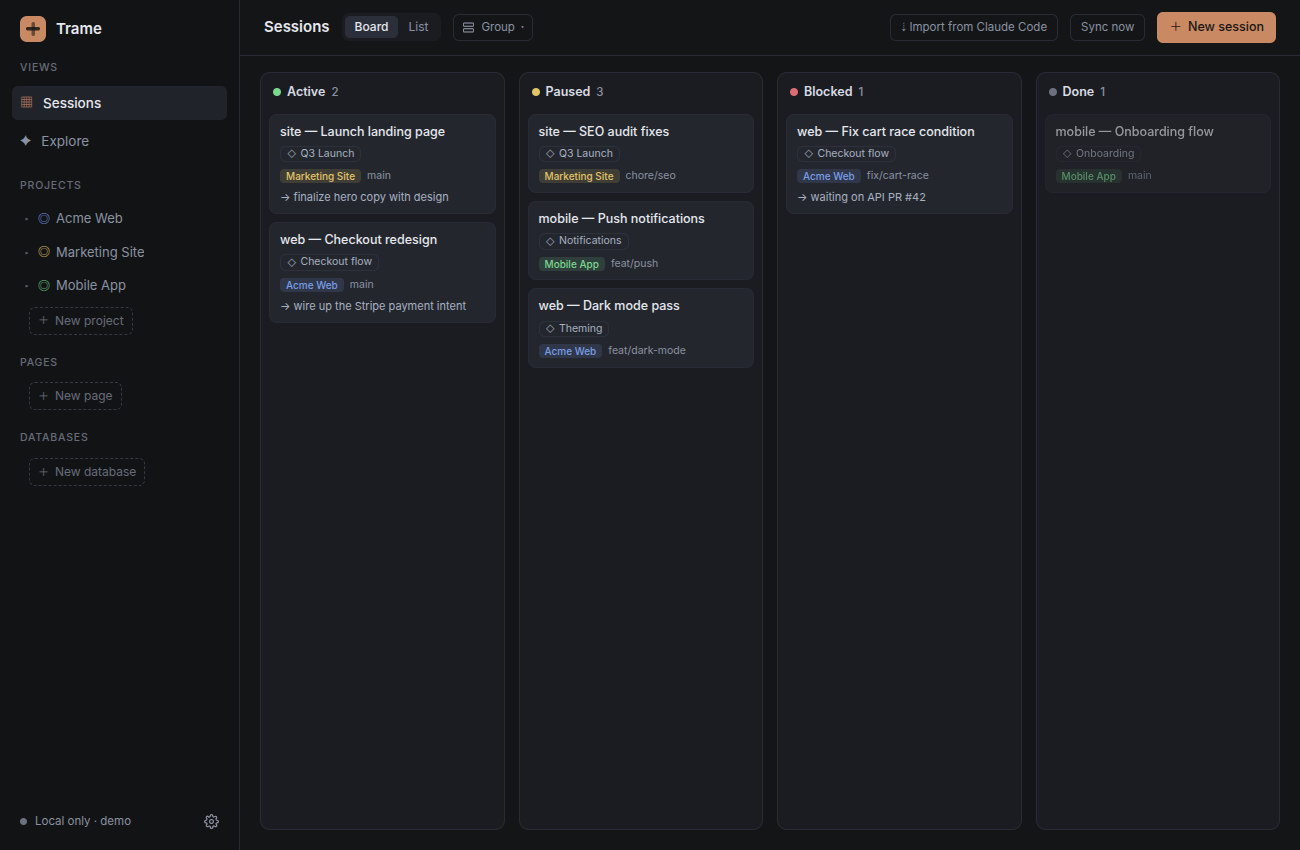
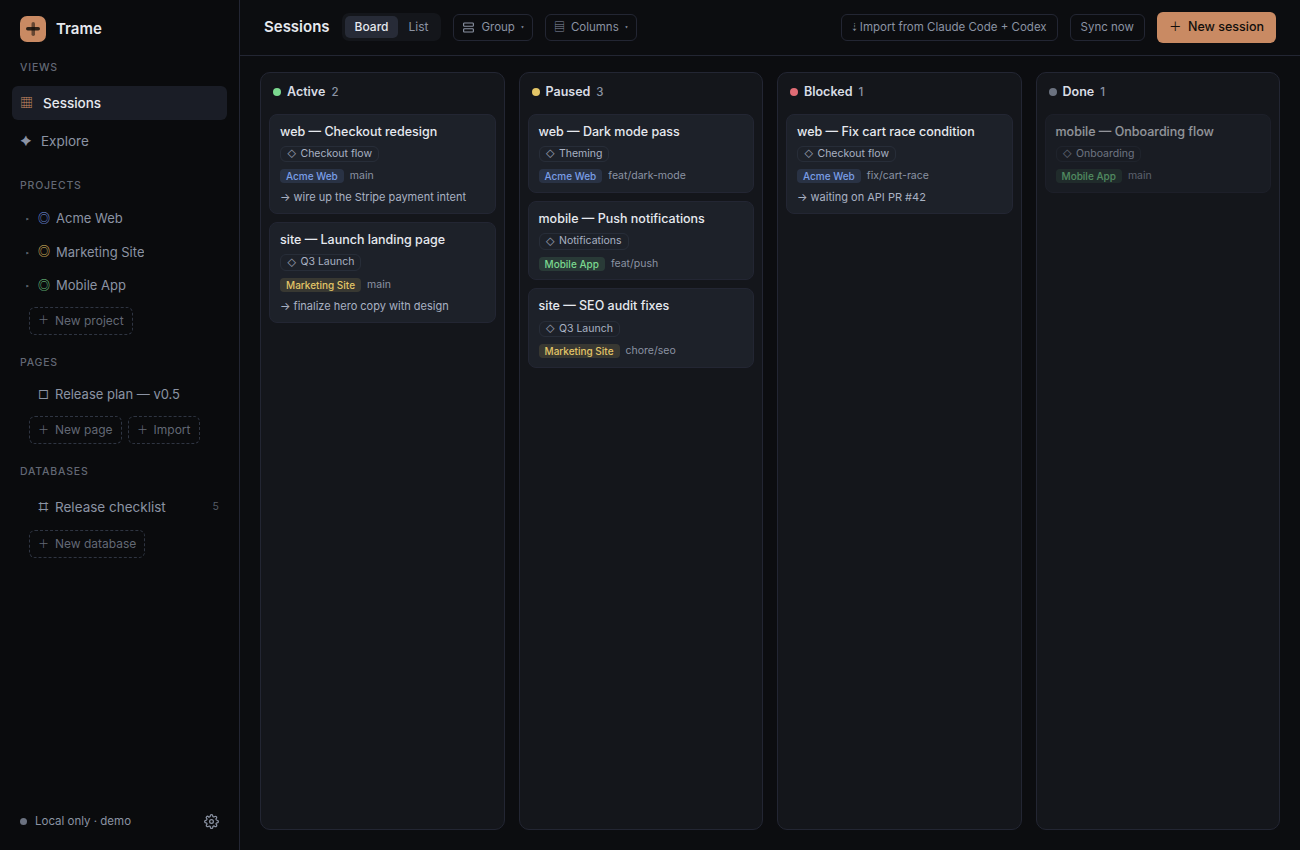
docs: refresh the README screenshots for 0.4, document plugins, add a reproducible demo seed
The screenshots were captured pre-0.4 and the README never mentioned the plugin
system at all.

- regenerate the six screenshots against 0.4.1: Codex in the import button, the
  Columns menu, the drawer's next-step banner / PR state chip / resume split-button,
  database view tabs + pagination, and the page Share button
- add scripts/demo-seed.ts + `just demo`: an isolated instance on :8799 with the
  fictional dataset the screenshots use, so the next refresh is one command. The
  recipe blanks TRACKER_REMOTE_PG explicitly — just loads .env, and demo data must
  never reach a real hub.
- README: document the plugin system and the deployments panel (incl. that tokens
  stay device-local, unsynced and host-bound); list plugins/, csrf.ts and
  settings-store.ts in the layout
- README: point the layout at `just install-cmd` / `just install-skill` — the shipped
  track.md and SKILL.md carry a __TRACK_WRITER__ placeholder since 0.4.1, so copying
  them by hand installs a broken writer path
- README: resume is Claude Code *or* Codex; note the walkthrough video predates 0.4

diff --git a/scripts/demo-seed.ts b/scripts/demo-seed.ts
@@ -1,0 +1,122 @@
+// DESCRIPTION: seed a Trame instance with the synthetic demo dataset used for the README
+// screenshots (docs/*.png). Fictional projects only — never point this at a real instance.
+// USAGE: TRAME_URL=http://127.0.0.1:8799 deno run -A scripts/demo-seed.ts
+// EXAMPLES: just demo   (spins up an isolated instance, seeds it, and serves it)
+const base = Deno.env.get("TRAME_URL") ?? "http://127.0.0.1:8799";
+
+const api = async (path: string, body?: unknown) => {
+  const res = await fetch(`${base}${path}`, {
+    method: body === undefined ? "GET" : "POST",
+    headers: body === undefined ? {} : { "content-type": "application/json" },
+    body: body === undefined ? undefined : JSON.stringify(body),
+  });
+  if (!res.ok) throw new Error(`${path} → ${res.status} ${await res.text()}`);
+  return res.json();
+};
+
+const PROJECT_COLOR: Record<string, string> = {
+  "Acme Web": "#7a9ee7",
+  "Marketing Site": "#e3c567",
+  "Mobile App": "#7bd88f",
+};
+
+// title, client, story, status, branch, next step
+const SESSIONS: [string, string, string, string, string, string?][] = [
+  ["site — Launch landing page", "Marketing Site", "Q3 Launch", "active", "main", "finalize hero copy with design"],
+  ["web — Checkout redesign", "Acme Web", "Checkout flow", "active", "main", "wire up the Stripe payment intent"],
+  ["site — SEO audit fixes", "Marketing Site", "Q3 Launch", "paused", "chore/seo"],
+  ["mobile — Push notifications", "Mobile App", "Notifications", "paused", "feat/push"],
+  ["web — Dark mode pass", "Acme Web", "Theming", "paused", "feat/dark-mode"],
+  ["web — Fix cart race condition", "Acme Web", "Checkout flow", "blocked", "fix/cart-race", "waiting on API PR #42"],
+  ["mobile — Onboarding flow", "Mobile App", "Onboarding", "done", "main"],
+];
+
+const board0 = await api("/api/board");
+if (board0.sessions.length) {
+  console.error("instance already has sessions — refusing to seed over it");
+  Deno.exit(1);
+}
+
+// With DEMO_CLAUDE_DIR set (and the app's TRACKER_CLAUDE_DIR pointing at it), plant a
+// transcript so the Checkout card is genuinely resumable — the drawer screenshot would
+// otherwise read "No transcript on this device". The app only checks the file exists.
+const AGENT_ID = "9f1c7c8e-3b2a-4d5e-8a1f-2c6b0d4e7a13";
+const claudeDir = Deno.env.get("DEMO_CLAUDE_DIR");
+if (claudeDir) {
+  const dir = `${claudeDir}/-Users-demo-code-acme-web`;
+  await Deno.mkdir(dir, { recursive: true });
+  await Deno.writeTextFile(
+    `${dir}/${AGENT_ID}.jsonl`,
+    JSON.stringify({ type: "user", cwd: "/Users/demo/code/acme-web" }) + "\n",
+  );
+}
+
+for (const [title, client, objective, status, branch, next_step] of SESSIONS) {
+  const checkout = title.includes("Checkout redesign");
+  await api("/api/sessions", {
+    title,
+    client,
+    objective,
+    status,
+    branch,
+    next_step,
+    repo_path: `/Users/demo/code/${client.toLowerCase().replace(/ /g, "-")}`,
+    pr_url: checkout ? "https://github.com/acme/web/pull/128" : undefined,
+    agent_id: checkout && claudeDir ? AGENT_ID : undefined,
+    no_event: true,
+  });
+}
+
+// project chips are colored per client
+const pages = await api("/api/pages") as { id: string; title: string; kind: string }[];
+for (const p of pages.filter((x) => x.kind === "project" && PROJECT_COLOR[x.title])) {
+  await api(`/api/pages/${p.id}`, { color: PROJECT_COLOR[p.title] });
+}
+
+const { id: pageId } = await api("/api/pages", { title: "Release plan — v0.5", kind: "page" });
+await api(`/api/pages/${pageId}`, {
+  content: [
+    { type: "heading", text: "Goals for v0.5", id: "b1" },
+    {
+      type: "text",
+      text: "Ship offline-first sync polish and the new reporting view. Keep the local-first guarantee: everything works with no hub.",
+      id: "b2",
+    },
+    { type: "heading", text: "Checklist", id: "b3" },
+    { type: "todo", text: "Conflict banner when a pull overwrites a local edit", done: true, id: "b4" },
+    { type: "todo", text: "Per-project weekly digest in Explore", done: false, id: "b5" },
+    { type: "todo", text: "Keyboard nav for the board (j/k, x to move)", done: false, id: "b6" },
+    { type: "heading", text: "Open questions", id: "b7" },
+    {
+      type: "text",
+      text: "Do we surface the hub connection state in the title bar, or keep it in the sidebar footer only?",
+      id: "b8",
+    },
+  ],
+});
+
+const { id: dbId } = await api("/api/udb", { name: "Release checklist" });
+const { properties } = await api(`/api/udb/${dbId}`);
+const titleId = (properties as { id: string; type: string }[]).find((p) => p.type === "title")!.id;
+
+const opt = (name: string, color: string) => ({ id: name.toLowerCase().replace(/ /g, "-"), name, color });
+const STATUS = [opt("Done", "#7bd88f"), opt("In progress", "#e3c567"), opt("Todo", "#8b93a3")];
+const PRIO = [opt("High", "#e06c75"), opt("Med", "#e3c567"), opt("Low", "#7a9ee7")];
+const { id: statusId } = await api(`/api/udb/${dbId}/props`, { name: "Status", type: "select", config: { options: STATUS } });
+const { id: prioId } = await api(`/api/udb/${dbId}/props`, { name: "Priority", type: "select", config: { options: PRIO } });
+const { id: ownerId } = await api(`/api/udb/${dbId}/props`, { name: "Owner", type: "text" });
+
+const ROWS: [string, string, string, string][] = [
+  ["Bump version to 0.4.1", "done", "high", "julien"],
+  ["Cut GitHub release + tag", "in-progress", "high", "julien"],
+  ["Update README screenshots", "in-progress", "med", "julien"],
+  ["Test resume on the Mac", "todo", "med", "sam"],
+  ["Verify color sync to hub", "done", "low", "sam"],
+];
+for (const [name, status, prio, owner] of ROWS) {
+  await api(`/api/udb/${dbId}/rows`, {
+    vals: { [titleId]: name, [statusId]: status, [prioId]: prio, [ownerId]: owner },
+  });
+}
+
+console.log(`seeded ${base}: ${SESSIONS.length} sessions, 3 projects, 1 page, 1 database`);

diff --git a/README.md b/README.md
@@ -5,7 +5,8 @@ under a **project**); the board is **status columns × swimlanes** — the view 
 tool gave us, and the columns are **yours to define**. It also holds free-form **pages** (with inline
 comments and one-file sharing) and **Notion-style databases** (sortable / filterable / groupable views).
 `⌘P` jumps to any session, page, or database; a card's **Resume** button reopens the session in Claude
-Code or Codex.
+Code or Codex. Opt-in **plugins** add side panels — the first one lists GitHub/GitLab
+**deployments waiting for approval**.
 
 Stack: **Deno-desktop** app → **local PGlite** (embedded Postgres, offline read+write) →
 custom **push/pull LWW sync** → **Postgres on a home server** (the hub). No PowerSync, no Electric.
@@ -25,13 +26,13 @@ Everything is Postgres, so the SQL is identical on the laptop and the hub.
 ![Trame walkthrough](docs/demo.gif)
 
 > A short tour: filter the board by story, regroup into swimlanes, open a session and
-> **resume it in Claude Code**, sort the list, then browse a page and a database.
-> ([higher-quality MP4](docs/demo.mp4) · screens use demo data)
+> **resume it in Claude Code or Codex**, sort the list, then browse a page and a database.
+> ([higher-quality MP4](docs/demo.mp4) · screens use demo data, recorded pre-0.4)
 
 | Kanban board — status columns | Swimlanes — group by project or story |
 | :--- | :--- |
 | [![board](docs/board.png)](docs/board.png) | [![grouped board](docs/board-grouped.png)](docs/board-grouped.png) |
-| **Session drawer — resume in Claude Code** | **Sortable list view** |
+| **Session drawer — resume in Claude Code / Codex** | **Sortable list view** |
 | [![drawer](docs/drawer.png)](docs/drawer.png) | [![list](docs/list.png)](docs/list.png) |
 | **Pages — notes & docs next to the work** | **Databases — Notion-style tables** |
 | [![page](docs/page.png)](docs/page.png) | [![database](docs/database.png)](docs/database.png) |
@@ -57,11 +58,14 @@ app/                       Deno-desktop app
   sync.ts                  custom LWW push/pull to the hub
   config.ts                env config (NODE_ID, REMOTE_PG, data dir…)
   share.ts                 export/import a page subtree as a portable *.trame.json bundle
+  csrf.ts                  same-origin guard for /api (it spawns terminals, opens files…)
+  plugins/                 opt-in in-tree plugins (deployments: GitHub/GitLab approvals)
+  settings-store.ts        single writer for the device-local settings JSON (0600, holds tokens)
   web/                     React swimlane board (Vite)
 track/track.ts             the /trame:track writer (hub PG or outbox)
 track/claude-hook.ts       UserPromptSubmit hook: records cwd → Claude session id for track.ts
-commands/trame/track.md    the /trame:track slash command (copy to ~/.claude/…)
-skills/trame-track/        Codex-native $trame-track skill (install into ~/.agents/skills)
+commands/trame/track.md    the /trame:track slash command — install with `just install-cmd`
+skills/trame-track/        Codex-native $trame-track skill — install with `just install-skill`
 ```
 
 ## Setup
@@ -140,6 +144,20 @@ commands can't see their own session id, so a `UserPromptSubmit` hook records it
 ```
 Without the hook `/trame:track` still works — the card just has no transcript link. Cards
 imported from the app's Claude Code + Codex dialog carry the UUID as their id and never need it.
+
+### 5. Plugins (optional)
+
+⚙ Settings → **Manage plugins**. Everything ships disabled — a networked plugin never reaches
+out until you switch it on.
+
+**Deployments** lists GitHub/GitLab releases **waiting for approval** in the sidebar (plus
+in-progress and recently-failed ones), and approves the gate / plays the manual job from the
+panel. Point it at the repos and projects to watch, then authenticate per forge with a PAT,
+`GITHUB_TOKEN` / `GITLAB_TOKEN`, or the `gh` / `glab` CLI (optional — there's a login button
+that spawns a terminal).
+
+> Tokens live only in this machine's `settings.json` (mode 0600). They are never synced to the
+> hub and never sent back to the UI, and each is bound to the forge host you configured.
 
 ## How sync works
 - **Transport**: mutual TLS — the hub only accepts connections presenting a client cert
